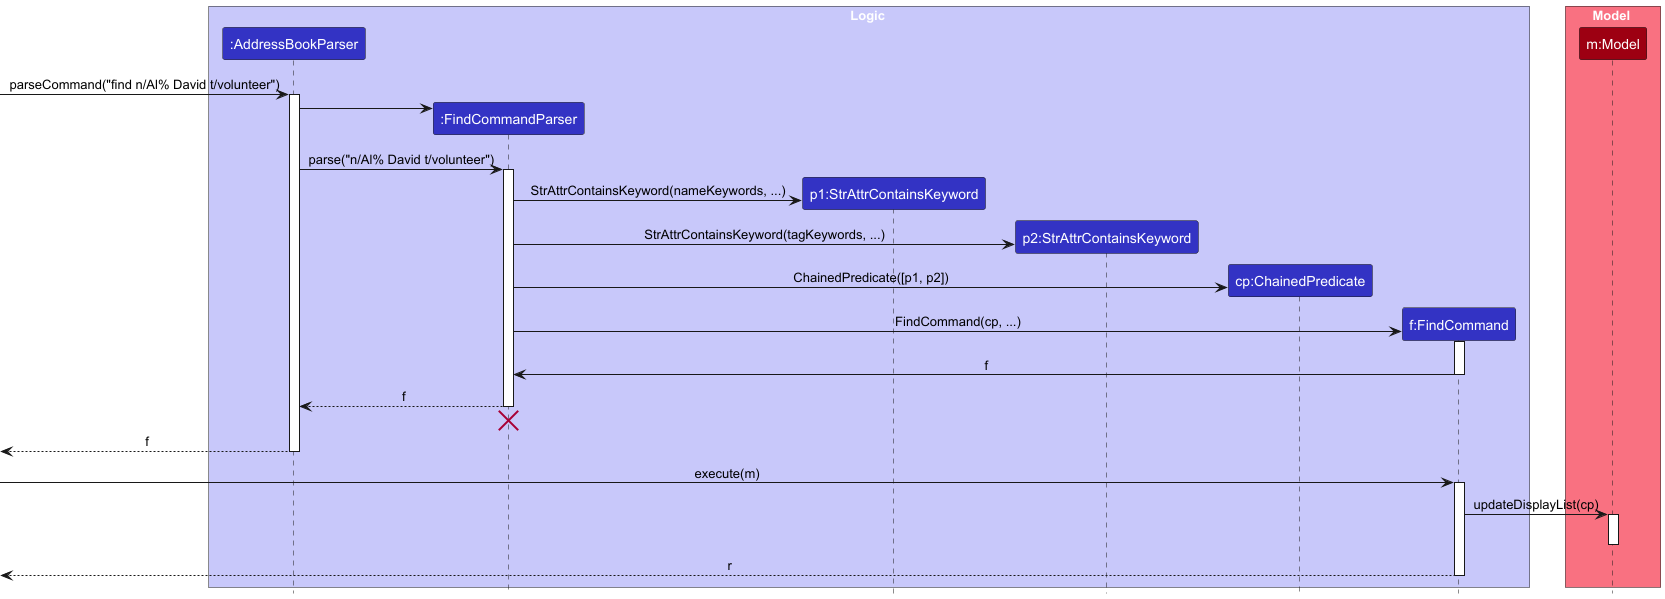
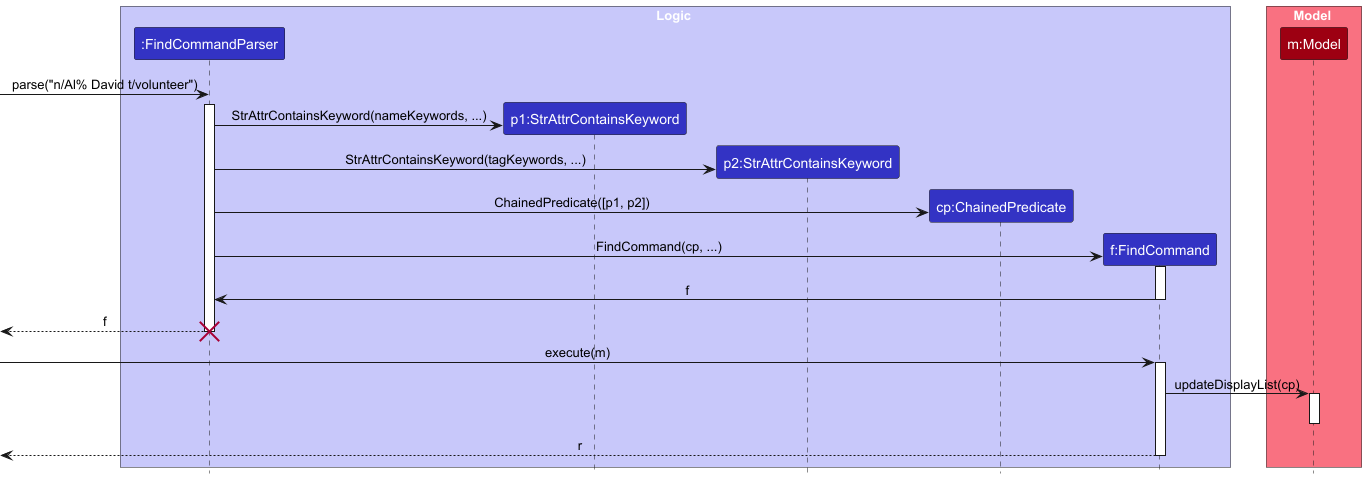
Update diagrams and modify planned enhancements

Changed region(s): [[0.0, 0.0, 1.0, 0.9937], [0.0, 0.6722, 0.0307, 0.7015]]

diff --git a/docs/DeveloperGuide.md b/docs/DeveloperGuide.md
@@ -69,7 +69,7 @@ The sections below give more details of each component.
 
 ### UI component
 
-The **API** of this component is specified in [`Ui.java`](https://github.com/se-edu/addressbook-level3/tree/master/src/main/java/seedu/address/ui/Ui.java)
+The ****API** of this component is specified in [`Ui.java`](https://github.com/se-edu/addressbook-level3/tree/master/src/main/java/seedu/address/ui/Ui.java)
 
 ![Structure of the UI Component](images/UiClassDiagram.png)
 
@@ -84,7 +84,7 @@ The `UI` component,
 * keeps a reference to the `Logic` component, because the `UI` relies on the `Logic` to execute commands.
 * depends on some classes in the `Model` component, as it displays `Person` object residing in the `Model`.
 
-### Logic component
+### Logic component**
 
 **API** : [`Logic.java`](https://github.com/se-edu/addressbook-level3/tree/master/src/main/java/seedu/address/logic/Logic.java)
 
@@ -172,7 +172,10 @@ How the `FindCommand` works:
 5. The collective list of predicates is passed to `ChainedPredicate`, which acts like an `AND` logic operator.
 This is the final predicate used to filter persons.
 
-Below is a given sequence diagram for the flow of find command.
+You can use the activity diagram below to understand the logic flow of FindCommand parsing.
+![FindActivityDiagram](images/FindActivityDiagram.png)
+
+Use the below given sequence diagram for how it is implemented and interacts with `Model`.
 
 ![FindSequenceDiagram](images/FindSequenceDiagram.png)
 
@@ -734,4 +737,9 @@ the CLI. We plan to have a keyboard shortcut to access the CLI.
 5. **Unable to add 2 people of the same name**: We have disabled the feature of adding 2 people of the same name to
 avoid duplicate contacts. We plan to do duplicate checks based on phone and email.
 6. **Find command does not have a default filter option**: We plan to allow the find function to have a default search e.g `find KEYWORDS...` which will search the keyword across all attributes
-7. **Allow closest and sort command to be additive**: Currently, the closest command performs a sort, so it overrides the previous sort status, we plan to allow sorting by a specific region.
+7. **Allow closest and sort command to be additive**: Currently, the sort command and closest command override each other's order. We plan to make proximity-based sorting be additive with sorting based on other attributes, 
+so users can sort by proximity, then by name, for example.
+8. **Make some parameters optional for add**: Attributes like email and address could be made optional, with a UI that shows it was intentionally left empty. 
+This would better suit real-world use cases where not all information may be available at the time of addition. 
+9. **Allow multiple phone numbers**: In real life, people may have multiple phone numbers (e.g. personal, office).
+This would allow users to store more complete contact information, so they can reach the contact through a secondary number in an emergency.
